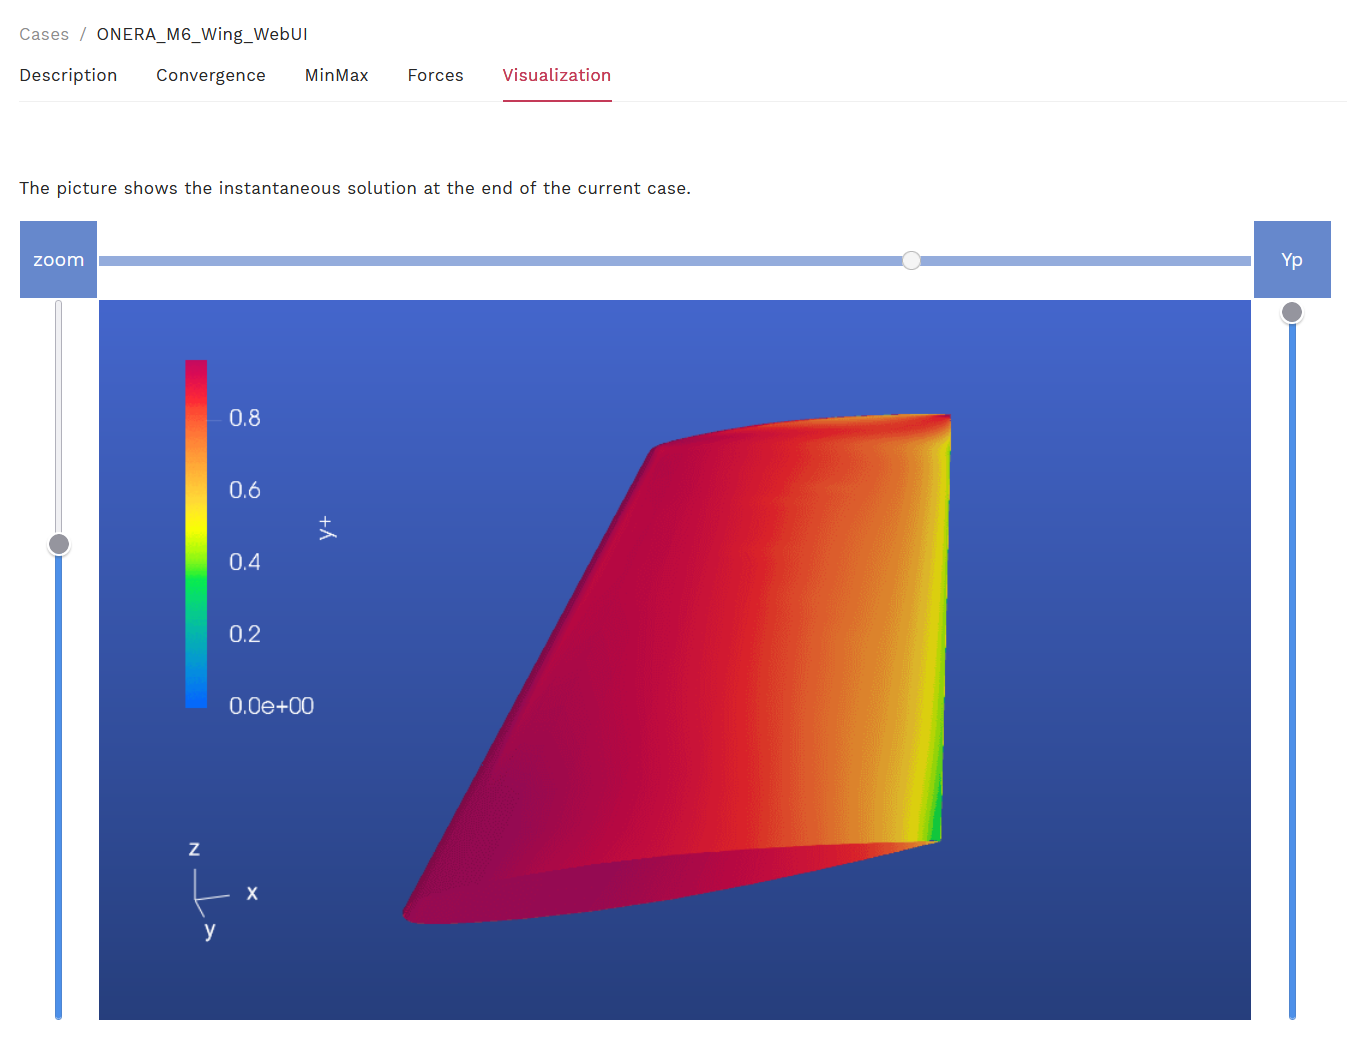
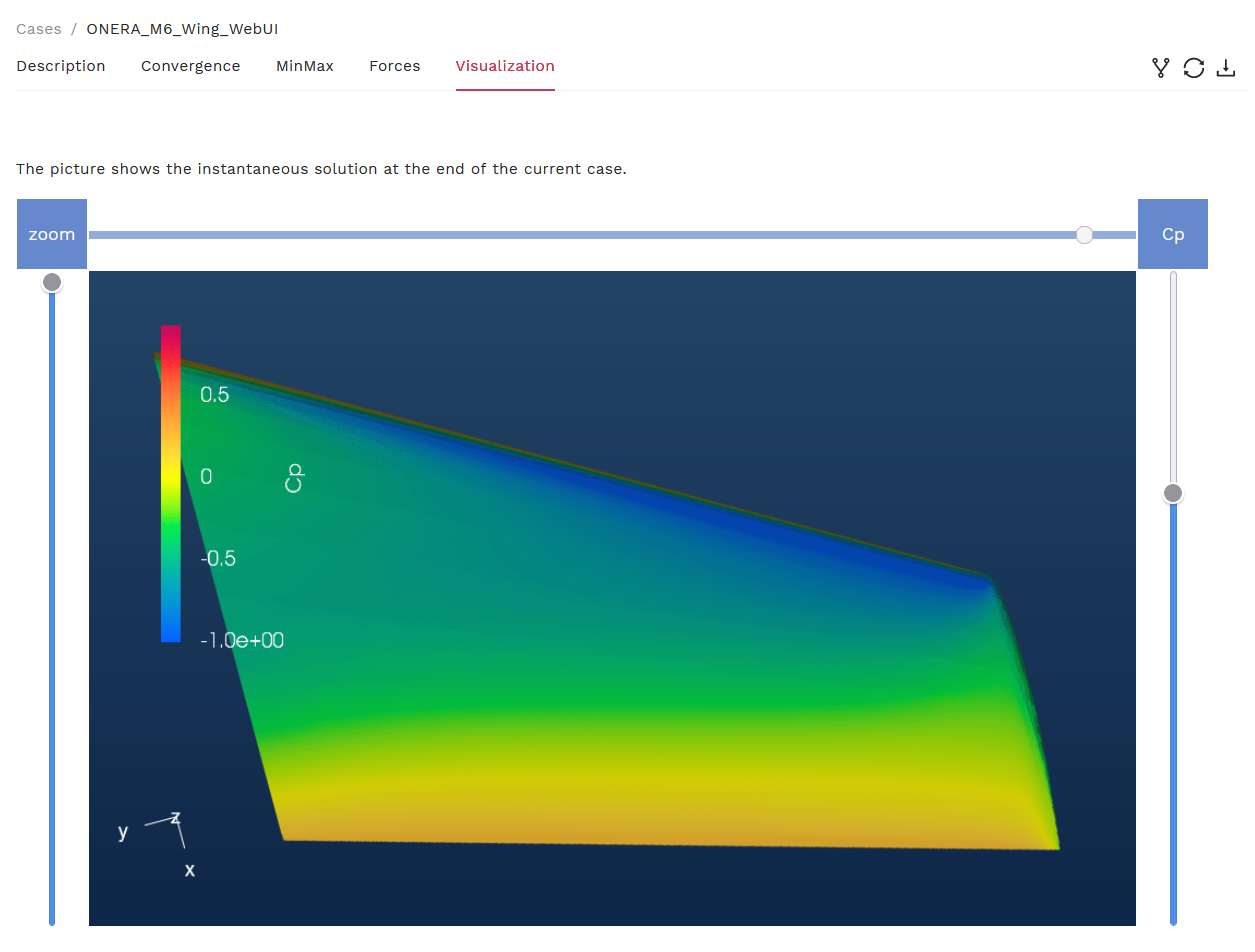
Updates to <om6_wing_webUI.rst>
1. the figure of Cp for flow visualization was updated;
2. three extra figures were included to show the process to upload the mesh, also the mesh and case json files.

diff --git a/docs/source/examples/om6_wing_webUI.rst b/docs/source/examples/om6_wing_webUI.rst
@@ -35,7 +35,11 @@ To upload a volumetric mesh file, under the **Volume Mesh** tab click on **Uploa
    :scale: 60%
    :align: center
 
-This will open a window.  You need to upload two files here.  The first is the volume mesh.  Download an example mesh of  M6 Wing `here <https://simcloud-public-1.s3.amazonaws.com/om6/wing_tetra.1.lb8.ugrid>`_.  The second is the mesh configuration json.  Download one `here <https://simcloud-public-1.s3.amazonaws.com/om6/Flow360Mesh.json?content_disposition=attachment>`_.  When uploading the mesh, be sure to set the Endianness to 'little endian' for this tutorial.  More information on endianness can be found `here <https://en.wikipedia.org/wiki/Endianness>`_.  (**Note**: Mesh Name and Tags are optional. For Release History, the latest solver version will be used here by default.)  Then click submit to upload and process your mesh. You can see the status of the mesh under the **Status** tab.
+This will open a window as shown in the next figure.  You need to upload two files here.  The first is the volume mesh.  Download an example mesh of  M6 Wing `here <https://simcloud-public-1.s3.amazonaws.com/om6/wing_tetra.1.lb8.ugrid>`_.  The second is the mesh configuration json.  Download one `here <https://simcloud-public-1.s3.amazonaws.com/om6/Flow360Mesh.json?content_disposition=attachment>`_.  When uploading the mesh, be sure to set the Endianness to 'little endian' for this tutorial.  More information on endianness can be found `here <https://en.wikipedia.org/wiki/Endianness>`_.  (**Note**: Mesh Name and Tags are optional. For Release History, the latest solver version will be used here by default.)  Then click submit to upload and process your mesh. You can see the status of the mesh under the **Status** tab.
+
+.. image:: figures_OM6_Tutorial/UploadMeshJsonFile.png
+   :scale: 60%
+   :align: center
 
 **Step 2. Launch a CFD Case:**
 
@@ -45,7 +49,19 @@ You do not have to wait for your mesh to be processed. Once your mesh is uploade
    :scale: 60%
    :align: center
 
-Once you click the airplane icon, the webpage will re-direct you to an interactive interface to either generate a case configuration json online or upload a pre-configured json file.  Please use this `Flow360.json <https://simcloud-public-1.s3.amazonaws.com/om6/Flow360.json?content_disposition=attachment>`_ file for the current case. A full dictionary of configuration parameters for the JSON input file can be found :ref:`here <Flow360json>`.  You may also provide a Case Name and Tags to track your case later on. Hit **Submit** to run your case.  Once the case is submitted, you can check the case status by clicking the **Case** tab.
+Once you click the airplane icon, the webpage will re-direct you to an interactive interface as shown below, to either generate a case configuration json online or upload a pre-configured json file.  
+
+.. image:: figures_OM6_Tutorial/StartNewCase.png
+   :scale: 60%
+   :align: center
+
+Please use this `Flow360.json <https://simcloud-public-1.s3.amazonaws.com/om6/Flow360.json?content_disposition=attachment>`_ file for the current case, and upload it through the window as displayed below. 
+
+.. image:: figures_OM6_Tutorial/UploadCaseJsonFile.png
+   :scale: 60%
+   :align: center
+
+A full dictionary of configuration parameters for the JSON input file can be found :ref:`here <Flow360json>`.  You may also provide a Case Name and Tags to track your case later on. Hit **Submit** to run your case.  Once the case is submitted, you can check the case status by clicking the **Case** tab.
 
 .. image:: figures_OM6_Tutorial/CaseStatus.png
    :scale: 60%
